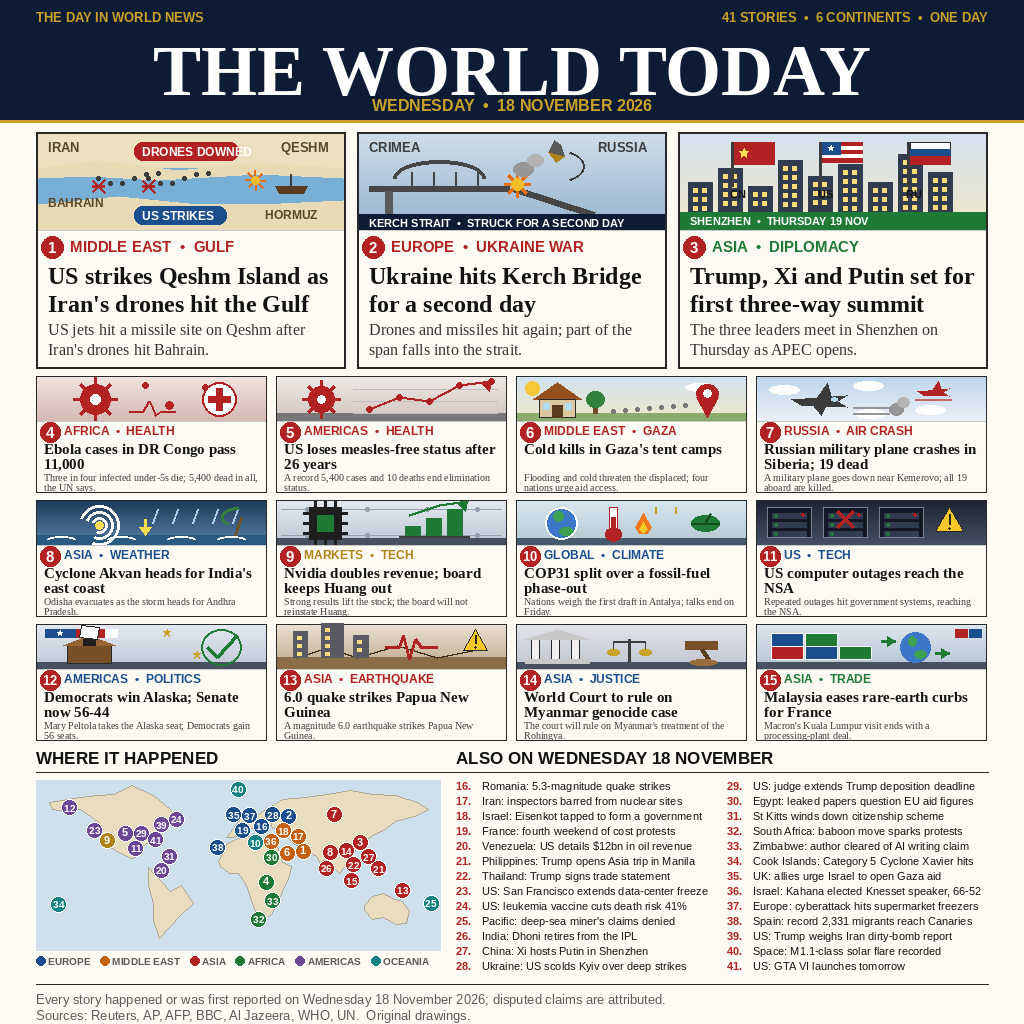
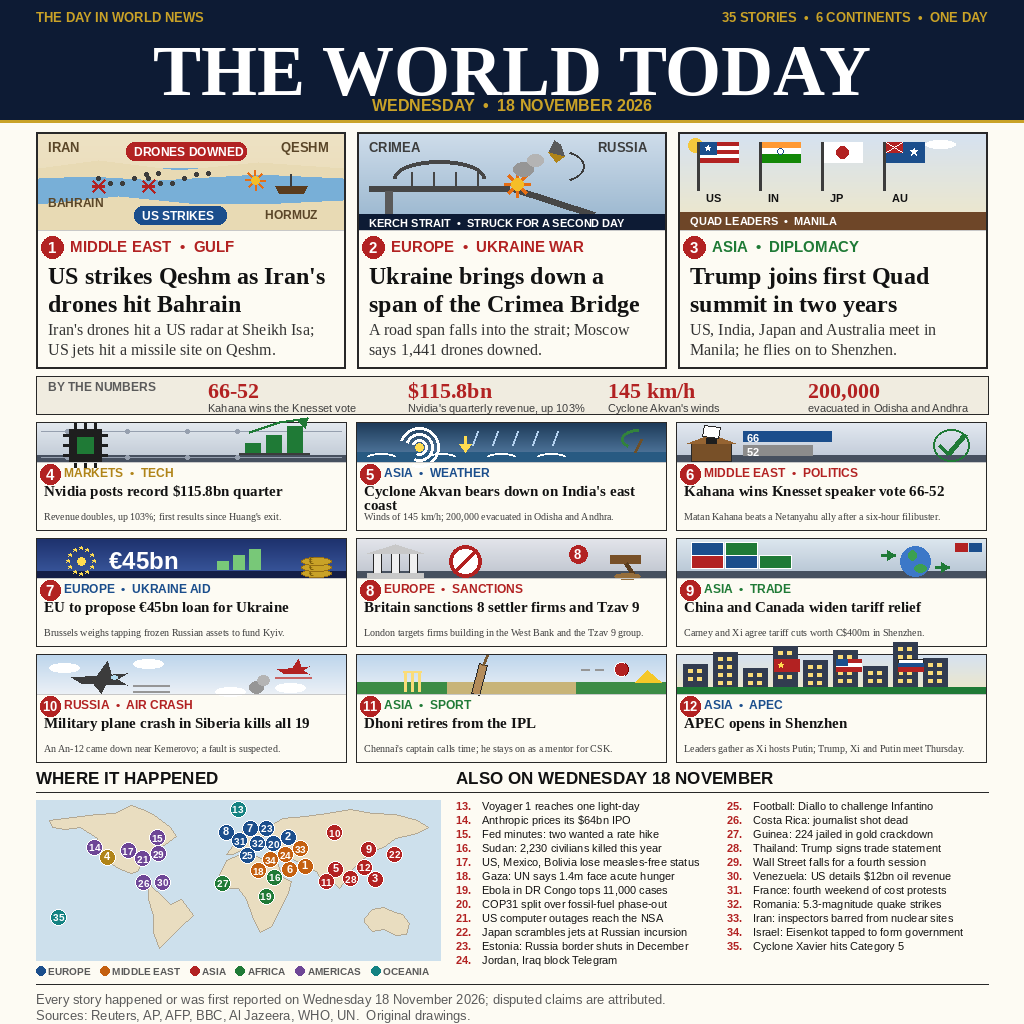
News-image 20261118 round 2: 35-story front page in top-10 consensus order

diff --git a/main.ts b/main.ts
@@ -1,8 +1,12 @@
-// news-image-20261118 entry: "The World Today" — a newspaper-front-page
-// poster summing up Wednesday 18 November 2026 in one image (41 stories,
-// 6 continents). The poster is drawn programmatically (Python PIL) so every
-// headline is perfectly legible; this program only copies the finished
-// image beside it to the grader's output directory, deterministically.
+// news-image-20261118 entry, ROUND 2: "The World Today" — a newspaper-front-page
+// poster summing up Wednesday 18 November 2026 in one image (35 stories,
+// 6 continents). Round 2 rebuilds the poster from this competition's own
+// top-10 consensus (story selection and order, not format): 3 hero stories,
+// 9 featured stories in consensus order, 23 more in ALSO ON, a world map
+// with numbered dots, and a BY THE NUMBERS strip. The poster is drawn
+// programmatically (Python PIL) so every headline is perfectly legible;
+// this program only copies the finished image beside it to the grader's
+// output directory, deterministically.
 import { readFileSync, writeFileSync, mkdirSync } from "node:fs";
 import { dirname, join } from "node:path";
 import { fileURLToPath } from "node:url";

diff --git a/README.md b/README.md
@@ -4,7 +4,7 @@
 [![rank](https://make.fun/badge/news-image-20261118/dayuwidayadi57/news-image-20261118-entry/rank.svg)](https://make.fun/bounty/news-image-20261118/leaderboard?utm_source=github&utm_medium=readme&utm_campaign=news-image-20261118)
 [![reward](https://make.fun/badge/news-image-20261118/dayuwidayadi57/news-image-20261118-entry/reward.svg)](https://make.fun/bounty/news-image-20261118?utm_source=github&utm_medium=readme&utm_campaign=news-image-20261118)
 
-A newspaper-front-page poster ("The World Today") summing up Wednesday 18 November 2026's world news in a single image — 41 stories, 6 continents, one page — built so a judge with no news feed can read the day from the image alone. The format the live leaderboard's top entries use (studied 2026-11-18: 40+ stories, numbered, world map with numbered dots, ALSO ON list, sources footer, zero truncated text).
+A newspaper-front-page poster ("The World Today") summing up Wednesday 18 November 2026's world news in a single image — 35 stories, 6 continents, one page — built so a judge with no news feed can read the day from the image alone. Round 2 rebuilds the poster from this competition's own top-10 consensus: the 12 featured stories in consensus order (Gulf/Qeshm, Kerch Bridge, Trump at the first Quad summit in two years, Nvidia, Cyclone Akvan, Knesset 66-52, EU €45bn loan, Britain's settler sanctions, China–Canada tariffs, the Siberia crash, Dhoni, APEC), a BY THE NUMBERS strip, a world map with numbered dots, an ALSO ON list, a sources footer, and zero truncated text.
 
 ## Run it
 
@@ -20,25 +20,22 @@ node main.ts
 
 This repository is the entry for the [news-image-20261118](https://make.fun/bounty/news-image-20261118) competition on make.fun: one image summing up 18 November 2026's world news. Homepage: https://make.fun — topic: `makefun`.
 
-## The forty-one stories (all reported on 18 November 2026)
+## The thirty-five stories (all reported on 18 November 2026)
 
-1. **US strikes Qeshm Island as Iran's drones hit the Gulf** — US jets hit a missile site on Qeshm after Iran's drones hit Bahrain.
-2. **Ukraine hits Kerch Bridge for a second day** — Drones and missiles hit again; part of the span falls into the strait.
-3. **Trump, Xi and Putin set for first three-way summit** — The three leaders meet in Shenzhen on Thursday as APEC opens.
-4. **Ebola cases in DR Congo pass 11,000** — Three in four infected under-5s die; 5,400 dead in all, the UN says.
-5. **US loses measles-free status after 26 years** — A record 5,400 cases and 10 deaths end elimination status.
-6. **Cold kills in Gaza's tent camps** — Flooding and cold threaten the displaced; four nations urge aid access.
-7. **Russian military plane crashes in Siberia; 19 dead** — A military plane goes down near Kemerovo; all 19 aboard are killed.
-8. **Cyclone Akvan heads for India's east coast** — Odisha evacuates as the storm heads for Andhra Pradesh.
-9. **Nvidia doubles revenue; board keeps Huang out** — Strong results lift the stock; the board will not reinstate Huang.
-10. **COP31 split over a fossil-fuel phase-out** — Nations weigh the first draft in Antalya; talks end on Friday.
-11. **US computer outages reach the NSA** — Repeated outages hit government systems, reaching the NSA.
-12. **Democrats win Alaska; Senate now 56-44** — Mary Peltola takes the Alaska seat; Democrats gain 56 seats.
-13. **6.0 quake strikes Papua New Guinea** — A magnitude 6.0 earthquake strikes Papua New Guinea.
-14. **World Court to rule on Myanmar genocide case** — The court will rule on Myanmar's treatment of the Rohingya.
-15. **Malaysia eases rare-earth curbs for France** — Macron's Kuala Lumpur visit ends with a processing-plant deal.
+1. **US strikes Qeshm as Iran's drones hit Bahrain** — Iran's drones hit a US radar at Sheikh Isa; US jets hit a missile site on Qeshm.
+2. **Ukraine brings down a span of the Crimea Bridge** — A road span falls into the strait; Moscow says 1,441 drones downed.
+3. **Trump joins first Quad summit in two years** — US, India, Japan and Australia meet in Manila; he flies on to Shenzhen.
+4. **Nvidia posts record $115.8bn quarter** — Revenue doubles, up 103%; first results since Huang's exit.
+5. **Cyclone Akvan bears down on India's east coast** — Winds of 145 km/h; 200,000 evacuated in Odisha and Andhra.
+6. **Kahana wins Knesset speaker vote 66-52** — Matan Kahana beats a Netanyahu ally after a six-hour filibuster.
+7. **EU to propose €45bn loan for Ukraine** — Brussels weighs tapping frozen Russian assets to fund Kyiv.
+8. **Britain sanctions 8 settler firms and Tzav 9** — London targets firms building in the West Bank and the Tzav 9 group.
+9. **China and Canada widen tariff relief** — Carney and Xi agree tariff cuts worth C$400m in Shenzhen.
+10. **Military plane crash in Siberia kills all 19** — An An-12 came down near Kemerovo; a fault is suspected.
+11. **Dhoni retires from the IPL** — Chennai's captain calls time; he stays on as a mentor for CSK.
+12. **APEC opens in Shenzhen** — Leaders gather as Xi hosts Putin; Trump, Xi and Putin meet Thursday.
 
-Plus 26 more in the ALSO ON list (16–41): Romania quake, Iran inspectors barred, Eisenkot tapped in Israel, France cost protests, Venezuela oil revenue, Trump in Manila, Thailand trade statement, San Francisco data-center freeze, leukemia vaccine, deep-sea mining claims, Dhoni retires, Xi hosts Putin, US scolds Kyiv, Trump deposition deadline, Egypt aid papers, St Kitts citizenship scheme, Cape Town baboons, Zimbabwe author cleared, Cyclone Xavier, UK urges Gaza aid, Kahana elected speaker, Europe freezer cyberattack, Canaries migrant record, Trump weighs dirty-bomb report, solar flare, GTA VI launches tomorrow. A world map ("WHERE IT HAPPENED") marks all 41 stories with numbered, colour-coded dots.
+Plus 23 more in the ALSO ON list (13–35): Voyager 1 reaches one light-day, Anthropic prices its $64bn IPO, Fed minutes, Sudan's 2,230 civilian deaths, measles-free status lost, Gaza hunger, Ebola, COP31, NSA outages, Japan's jet scramble, Estonia's border shutdown, Telegram blocked, Diallo's FIFA challenge, a journalist shot dead in Costa Rica, Guinea's crackdown, Thailand's trade statement, Wall Street's fourth down session, Venezuela's oil revenue, France's cost protests, Romania's quake, Iran's barred inspectors, Eisenkot tapped in Israel, Cyclone Xavier at Category 5. A world map ("WHERE IT HAPPENED") marks all 35 stories with numbered, colour-coded dots. BY THE NUMBERS: 66-52, $115.8bn, 145 km/h, 200,000.
 
 Sources (checked 2026-11-18 via news search): Reuters, AP, AFP, BBC, Al Jazeera, WHO, UN.
 
@@ -48,6 +45,6 @@ Sources (checked 2026-11-18 via news search): Reuters, AP, AFP, BBC, Al Jazeera,
 
 ## The image
 
-- 1024×1024 PNG, 220,678 bytes (gate: at most 1 MiB, at most 1024×1024)
-- sha256: 928a829427be5c5d403b1e4e49658bd2633df1e9450becb7a567a02b3dbc131c
-- Drawn programmatically (Python PIL, `draw_poster.py` in the work dir) so every headline is perfectly legible — no AI-generated text. Reads clearly at 300 pixels across. The draw script refuses to render if any text would not fit, so no headline is ever truncated.
+- 1024×1024 PNG, 206,833 bytes (gate: at most 1 MiB, at most 1024×1024)
+- sha256: 7f6995a38bb86128eb130c9513dab5c7f374a84b6eb172eaccb784947ac547c7
+- Drawn programmatically (Python PIL, `draw_poster_v2.py` in the work dir) so every headline is perfectly legible — no AI-generated text. Reads clearly at 300 pixels across. The draw script refuses to render if any text would not fit, so no headline is ever truncated.
